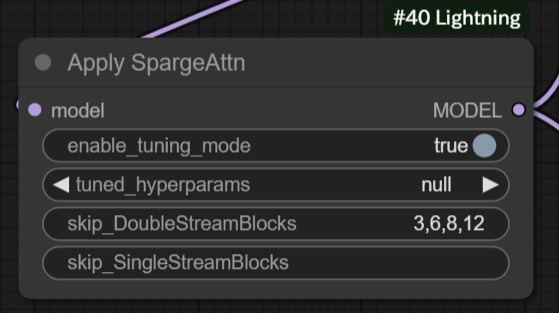
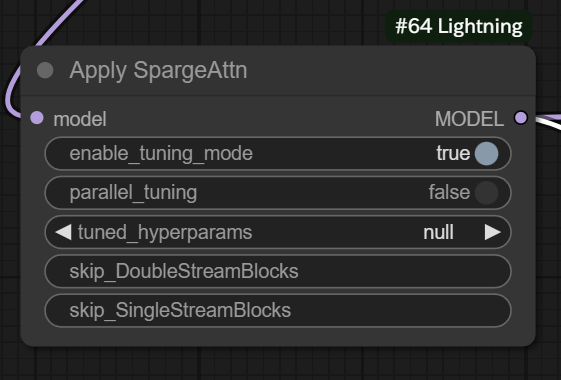
SpargeAttn support parallel tuning

diff --git a/spargeattn/nodes.py b/spargeattn/nodes.py
@@ -1,12 +1,15 @@
+import sys
+import os
+from pathlib import Path
+from typing import Optional
+import types
+
 import torch
 import comfy.sd
 from comfy.model_patcher import ModelPatcher
 from comfy.ldm.flux.model import Flux, DoubleStreamBlock, SingleStreamBlock
-import types
 import comfy.utils
 import folder_paths
-from typing import Optional
-import os
 
 
 class ApplySpargeAttn:
@@ -16,6 +19,7 @@ class ApplySpargeAttn:
             "required": {
                 "model": ("MODEL",),
                 "enable_tuning_mode": ("BOOLEAN", {"default": False}),
+                "parallel_tuning": ("BOOLEAN", {"default": False}),
                 "tuned_hyperparams": (
                     [None] + folder_paths.get_filename_list("checkpoints"),
                     {"default": None},
@@ -34,6 +38,7 @@ class ApplySpargeAttn:
         self,
         model: ModelPatcher,
         enable_tuning_mode: bool,
+        parallel_tuning: bool,
         tuned_hyperparams: Optional[str],
         skip_DoubleStreamBlocks: str,
         skip_SingleStreamBlocks: str,
@@ -92,6 +97,13 @@ class ApplySpargeAttn:
                 sd_path = folder_paths.get_full_path("checkpoints", tuned_hyperparams)
                 sd = comfy.utils.load_torch_file(sd_path, safe_load=True)
                 load_sparse_attention_state_dict(dm, sd)
+
+            if parallel_tuning:
+                comfyui_root = Path(os.path.abspath(__file__)).resolve().parents[3]
+                sys.path.insert(0, str(comfyui_root))
+                os.environ["PARALLEL_TUNE"] = "1"
+            else:
+                os.environ["PARALLEL_TUNE"] = ""
 
         except Exception as e:
             print(e)

diff --git a/README.md b/README.md
@@ -16,9 +16,7 @@ This repository integrates all the tricks I know to speed up Flux inference:
 ## Updates
 
 - \[2025/3/10\] Add [SpargeAttn](https://github.com/thu-ml/SpargeAttn). For more details, see [Usage](#for-spargeattn).
-
 - \[2025/2/27\] Add [ToCa](https://github.com/Shenyi-Z/ToCa).
-
 - \[2025/1/24\] Now support [Sana](https://github.com/NVlabs/Sana). Get your 1024*1024 images within 2s. All the codes are modified from [Sana](https://github.com/NVlabs/Sana).
 
 ## Usage
@@ -36,23 +34,17 @@ You can use `XXCache`, `SageAttention`, and `torch.compile` with the following e
 More specific:
 
 1. Download Flux diffusion model and VAE image decoder from [FLUX.1-dev](https://huggingface.co/black-forest-labs/FLUX.1-dev) or [FLUX.1-schnell](https://huggingface.co/black-forest-labs/FLUX.1-schnell). Put the `flux1-dev.safetensors` or `flux1-schnell.safetensors` file into `models/diffusion_models` and the `ae.safetensors` file into `models/vae`;
-
-3. Download Flux text encoder from [flux_text_encoders](https://huggingface.co/comfyanonymous/flux_text_encoders) and put all the `.safetensors` files into `models/clip`;
-
-4. Run the example [workflow](./examples/flux_example_workflow.json).
+2. Download Flux text encoder from [flux_text_encoders](https://huggingface.co/comfyanonymous/flux_text_encoders) and put all the `.safetensors` files into `models/clip`;
+3. Run the example [workflow](./examples/flux_example_workflow.json).
 
 ### For Sana
 
 <img src="./assets/sana_generation_results.png" alt="Sana Generation Results" width="80%"/>
 
 1. Download Sana diffusion model from [Model Zoo](https://github.com/NVlabs/Sana/blob/main/asset/docs/model_zoo.md) and put the `.pth` file into `models/diffusion_models`;
-
 2. Download Gemma text encoder from [google/gemma-2-2b-it](https://huggingface.co/google/gemma-2-2b-it), [unsloth/gemma-2b-it-bnb-4bit](https://huggingface.co/unsloth/gemma-2b-it-bnb-4bit) or [Efficient-Large-Model/gemma-2-2b-it](https://huggingface.co/Efficient-Large-Model/gemma-2-2b-it) and put the whole folder into `models/text_encoders`;
-
 3. Download DCAE image decoder from [mit-han-lab/dc-ae-f32c32-sana-1.0](https://huggingface.co/mit-han-lab/dc-ae-f32c32-sana-1.0) and put the `.safetensors` file into `models/vae`;
-
 4. Run the example [workflow](./examples/sana_example_workflow.json).
-
 
 ### For SpargeAttn
 
@@ -60,26 +52,27 @@ SpargeAttn is an attention acceleration method based on SageAttention, which req
 
 1. First you should follow the steps below to install `SpargeAttn`. If you have problems installing it, see the original [repository](https://github.com/thu-ml/SpargeAttn);
 
-    ```bash
-    git clone https://github.com/thu-ml/SpargeAttn.git
-    cd ./SpargeAttn
-    pip install -e .
-    ```
+   ```bash
+   git clone https://github.com/thu-ml/SpargeAttn.git
+   cd ./SpargeAttn
+   pip install -e .
+   ```
 
 2. If you do not have a hyperparameter file, you should perform a few rounds of quality fine-tuning to get one first. You just need to open the `enable_tuning_mode` of the node `Apply SpargeAttn` and perform the generation. For example, generate 50-step 512*512 images at 10 different prompts (very time-consuming);
 
-    <img src="./assets/spargeattn_autotune.png" alt="SpargeAttn Autotune" width="40%"/>
+   <img src="./assets/spargeattn_autotune.png" alt="SpargeAttn Autotune" width="35%"/>
 
-    > - The `skip_DoubleStreamBlocks` and `skip_SingleStreamBlocks` arguments are used to skip certain blocks that do not require the use of `SpargeAttn`, mainly to work with `TeaCache` and `FBCache`.
-    > - If you have a well-tuned hyperparameter file, feel free to share it.
+   > - The `skip_DoubleStreamBlocks` and `skip_SingleStreamBlocks` arguments are used to skip certain blocks that do not require the use of `SpargeAttn`, mainly to work with `TeaCache` and `FBCache`.
+   > - Enable `parallel_tuning ` to utilize multiple GPUs to accelerate tuning. In this case, you need to start ComfyUI with the argument `--disable-cuda-malloc`.
+   > - If you have a well-tuned hyperparameter file, feel free to share it.
 
 3. Turn off `enable_tuning_mode` and use the `Save Finetuned SpargeAttn Hyperparams` node to save your hyperparameter file;
 
-    <img src="./assets/spargeattn_saving.png" alt="SpargeAttn Saving" width="100%"/>
+   <img src="./assets/spargeattn_saving.png" alt="SpargeAttn Saving" width="90%"/>
 
 4. Remove or disable the `Save Finetuned SpargeAttn Hyperparams` node and place the saved hyperparameter file in the `models/checkpoints` folder. Load this hyperparameter file in the `Apply SpargeAttn` node;
 
-    <img src="./assets/spargeattn_loading.png" alt="SpargeAttn Loading" width="100%"/>
+   <img src="./assets/spargeattn_loading.png" alt="SpargeAttn Loading" width="90%"/>
 
 5. Enjoy yourself.
 
